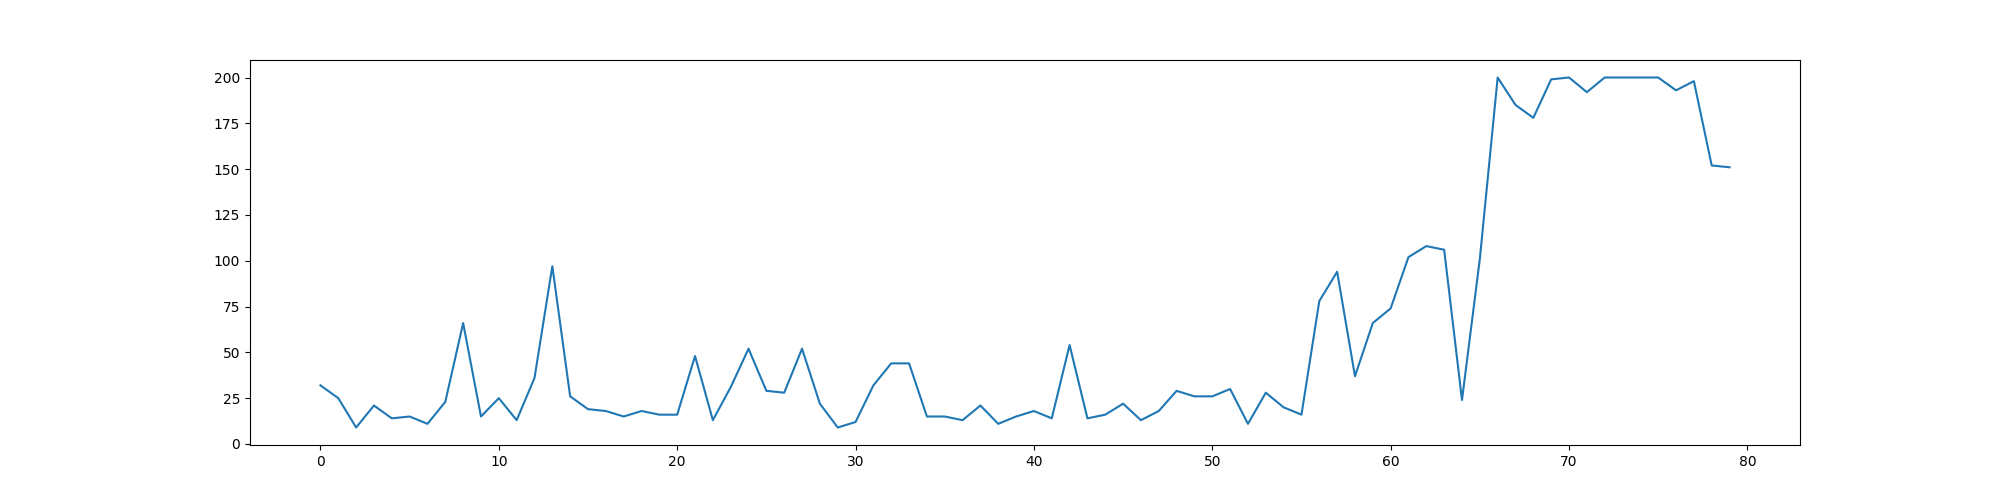
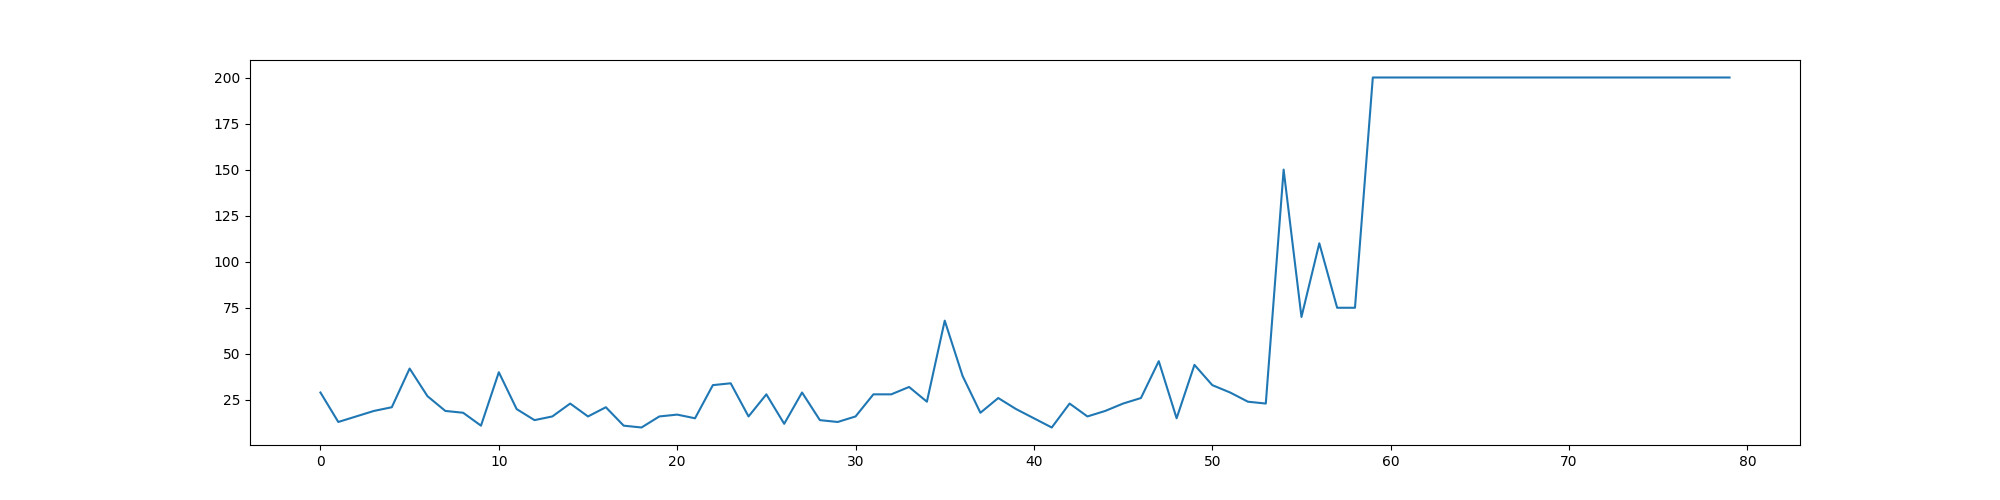
tune

diff --git a/sac_discrete.py b/sac_discrete.py
@@ -266,8 +266,8 @@ DETERMINISTIC=False
 hidden_dim = 64
 rewards     = []
 model_path = './model/sac_discrete_v2'
-# target_entropy = -1.*action_dim
-target_entropy = 0.98 * -np.log(1 / action_dim)
+target_entropy = -1.*action_dim
+# target_entropy = 0.98 * -np.log(1 / action_dim)
 
 sac_trainer=SAC_Trainer(replay_buffer, hidden_dim=hidden_dim)
 
